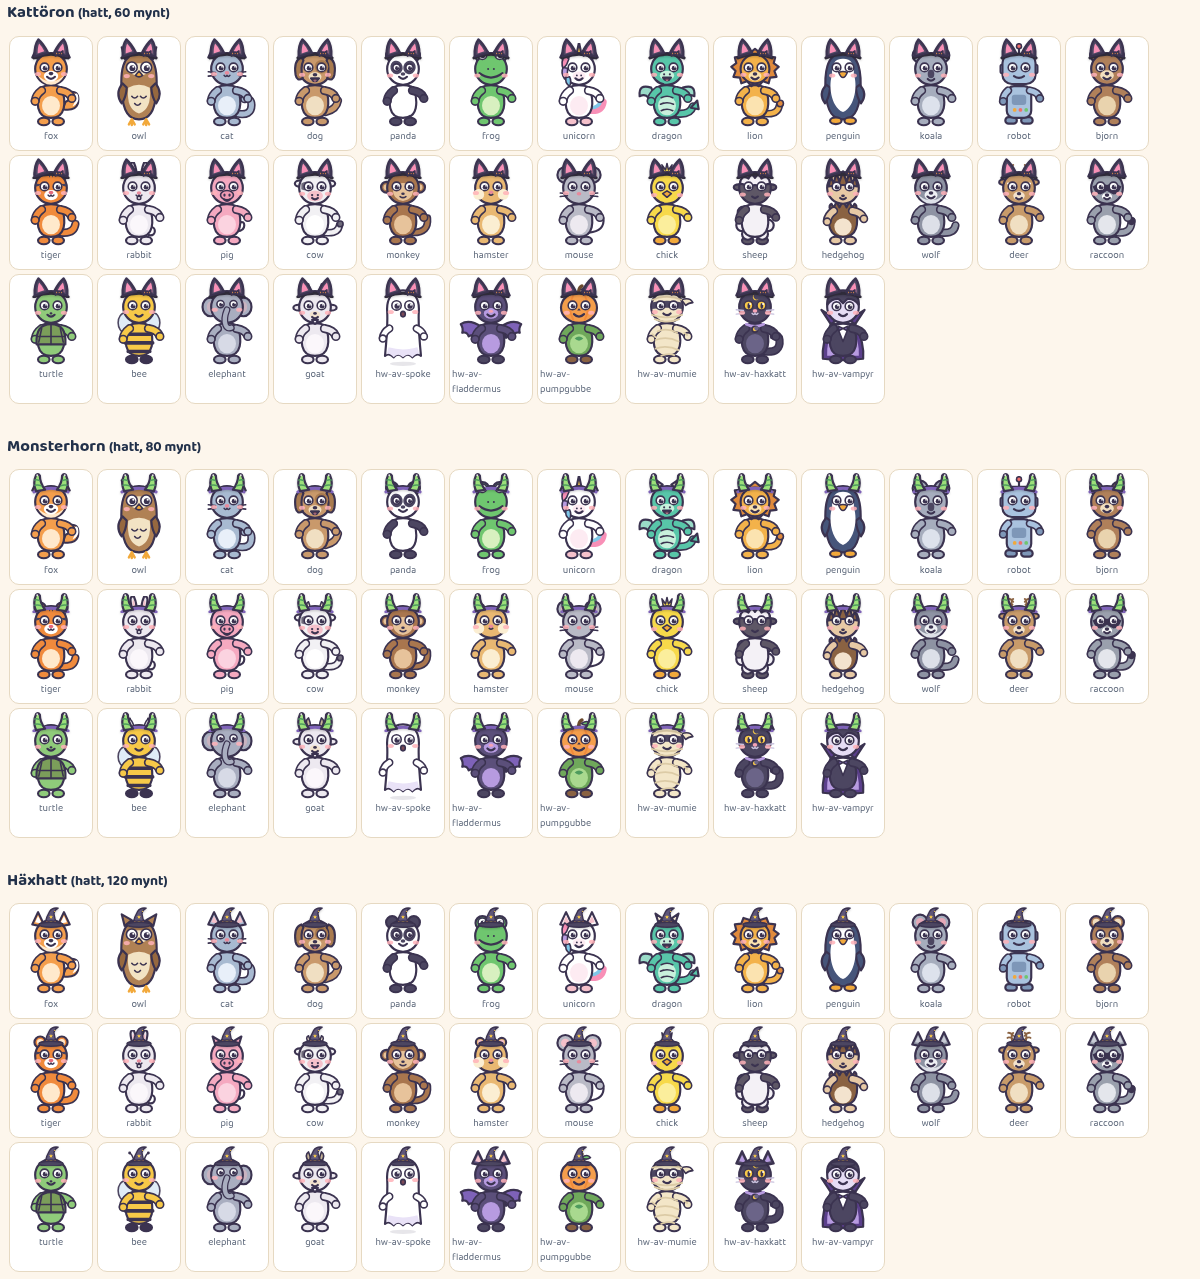
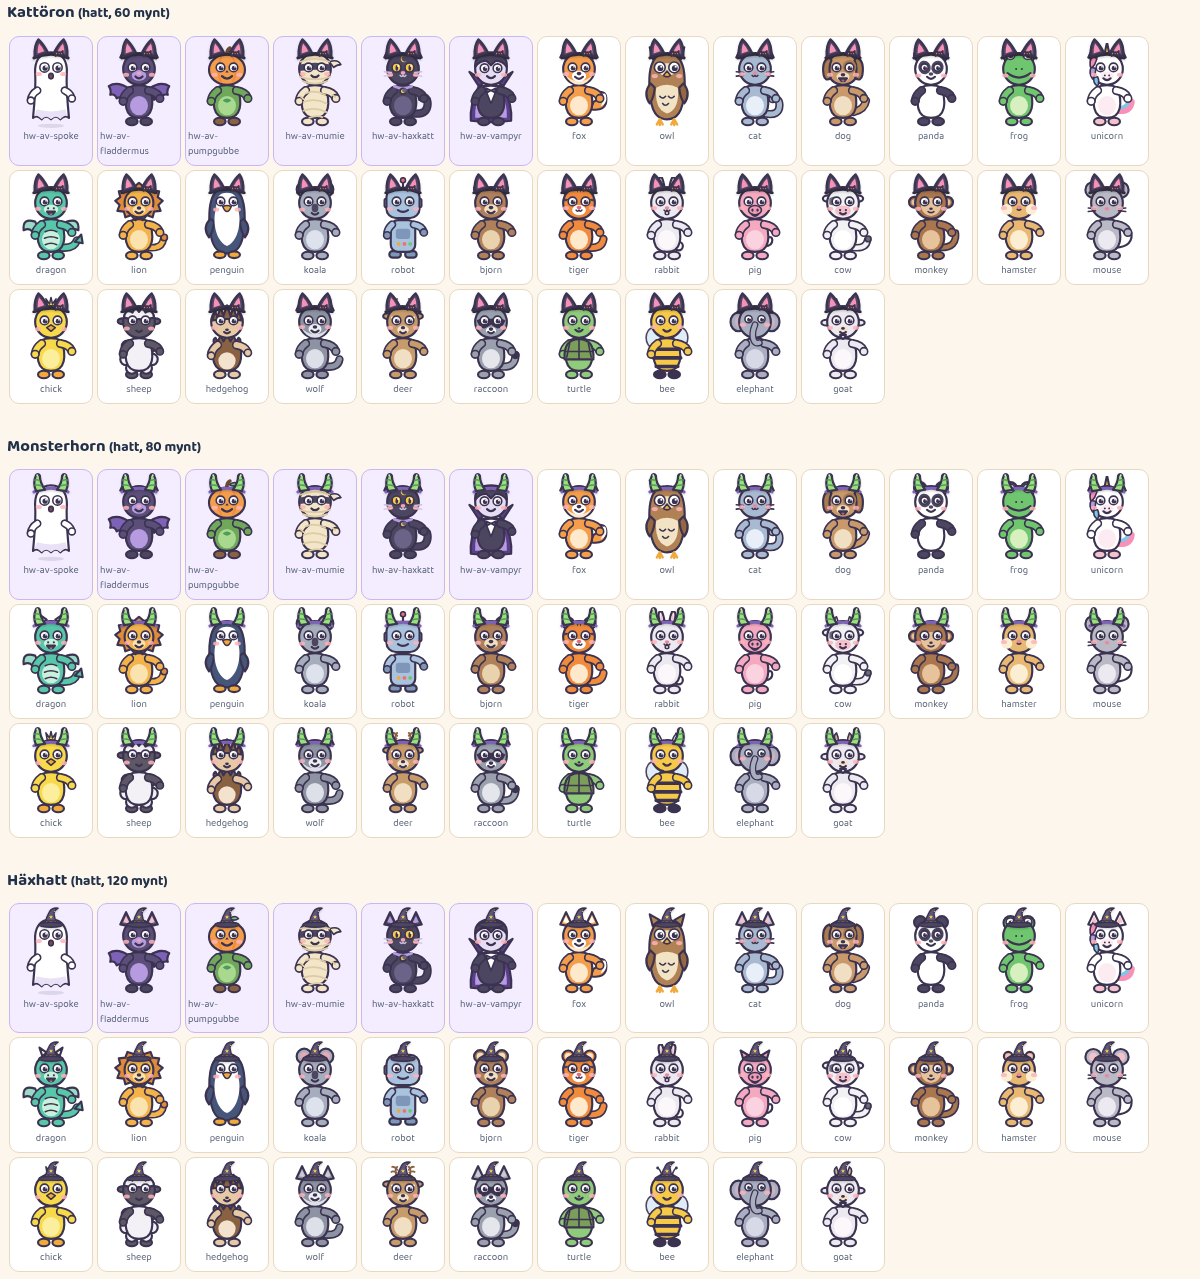
issue #696: test 11 omverifierad på D:s kostym-preview (199e8c5), nya matrisbilder

diff --git a/docs/QA-RAPPORT-host-halloween.md b/docs/QA-RAPPORT-host-halloween.md
@@ -40,7 +40,7 @@ Skärmdumpar finns i `docs/qa-host-halloween-696/`.
 | 8 Kostym bärs och syns i rum/by/Live | ✅ | 4 kostymer påtagna i garderoben. Synliga i sidomenyn, framför huset, i byn och på Live-sidan |
 | 9 Halloween av: osynlig, gråad, kan inte tas på, ingen data omskriven | ✅ | 0 synliga i hus/by/Live. Garderoben är gråad ("🎃 Ta av"). Avtagen kostym: "Kan bäras igen nästa Halloween", och ett nytt klick ger samma meddelande utan att kostymen tas på. `avatarItems` var orört tills eleven själv tog av |
 | 10 Halloween på igen → syns igen | ✅ | Live och efter omladdning: 6/6 synliga |
-| 11 Varje kostym på varje avatar, även de nya | ✅ | `preview/preview-kostymer.html` visar nu också de 6 köpbara avatarerna: 11 × 36 = 396 celler, 0 platshållare. Bilder: `kostym-matris-1…4.png`, förstorat `kostym-zoom.png` |
+| 11 Varje kostym på varje avatar, även de nya | ✅ | `preview/preview-kostymer.html` (D:s version 3b5c86a, med de 6 köpbara avatarerna först): 11 × 36 = 396 celler, 396 synliga kostymer, 0 platshållare. Bilder: `kostym-matris-1…4.png`, förstorat `kostym-zoom.png` |
 | 12 Köpt Halloween-avatar kan väljas och finns kvar när Halloween är av | ✅ | Köpte Litet spöke (400). Med Halloween av valdes den i avatarvalet och sparades som `avatarId=hw-av-spoke` |
 | 13 Ej köpt kan inte väljas, befintliga gratis | ✅ | De 5 ej köpta visas låsta: klick väljer inget. De 30 gratis visas olåsta som förut. Regeln `kopAvatarOk` testas i `test/firestore-rules-avatarer.test.js` (gratis väljs fritt, ej köpt nekas) |
 | 14 Köp Spökis → pumpaägg → Spökis | ✅ | 500 mynt, `pets[].eggSpecies=spokis`. Efter ett simulerat dygn kläcktes det till Spökis steg 1 (Dimfjun) via det vanliga flödet |
